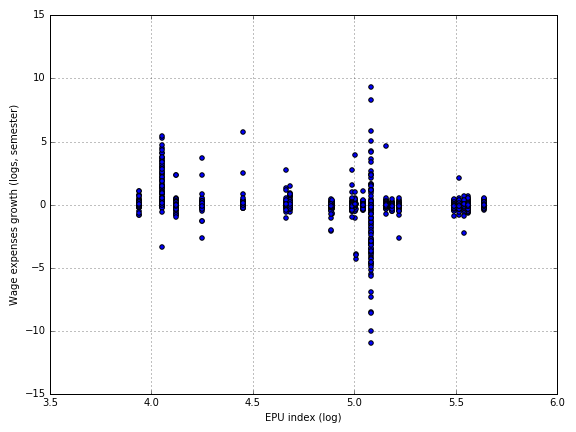
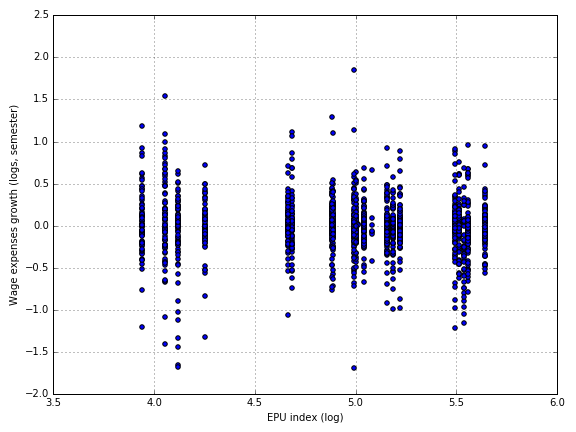
diff must be taken before concatenating dataframes

diff --git a/accounts/match_boe.py b/accounts/match_boe.py
@@ -37,7 +37,7 @@ with open(os.path.join(rootdir,'accounts','biz_meta_regex.csv'),'rb') as inf:
     entity_regex_l = list(instream)
 patterns = map(lambda x: compile(x[1],I|DOTALL).match, entity_regex_l)
 
-
+trim_small = True
 
 def find_work_by_entity():
     wee = []
@@ -187,6 +187,8 @@ def build_data_frame():
 
     macro_df = pd.DataFrame.from_csv(os.path.join(rootdir, 'regressors.csv'))
     bigdict = {}
+    wrongness = 0
+    goodness = 0
     for entity_id in datadict.keys():
         datadict[entity_id] = datadict[entity_id].join(macro_df)
         s = entity_sector_pairs[entity_id]
@@ -196,12 +198,24 @@ def build_data_frame():
         datadict[entity_id]['spend_weighted'] = sector_avg[s]*datadict[entity_id]['spending']
         assert('Wages' in datadict[entity_id])
         datadict[entity_id]['log_w'] = np.log(datadict[entity_id]['Wages'])
+        datadict[entity_id]['dlog_w'] = datadict[entity_id]['log_w'].diff()
+        datadict[entity_id]['dspend_weighted'] = datadict[entity_id]['spend_weighted'].diff()
         if entity_id not in cv_dict: ## exclude entities for which no stock
             continue
         df1 = datadict[entity_id].join(cv_dict[entity_id]).join(cv_dict['ibex35'])
         df1['ibex_weighted'] = df1['ibex35']*sector_avg[s]
-        bigdict[entity_id] = df1
-    
+        
+        df1 = df1[[x[0] or x[1] for x in zip(list(df1['dlog_w'].abs() < 1), list(df1['dlog_w'].isnull()) ) ]]
+        if any(datadict[entity_id]['log_w'].diff().abs() > 1):
+            wrongness +=1
+            print entity_id + 'has wage data issues'
+        else:
+            goodness +=1
+        if trim_small:
+            if len(df1) >3:
+                bigdict[entity_id] = df1
+        else:
+            bigdict[entity_id] = df1
     bigdf = pd.concat(bigdict.values(),keys=bigdict.keys())
         
     for k,v in bigdict.items():
@@ -231,9 +245,9 @@ def run_regressions():
         for ix, regressors in enumerate(reglist):
             if dependent == 'log_w':
                 df = bigdf[bigdf['Wages'] > 0]
-                df[['log_w','spend_weighted']] = df[['log_w','spend_weighted']].diff(periods = 1)
+                df[['log_w','spend_weighted']] = df[['dlog_w','dspend_weighted']].diff()
                 
-                df[['log_epu','epu_weighted','lag_exp']] = df[['log_epu','epu_weighted','spend_weighted']].shift(1)
+                df[['log_epu','epu_weighted','lag_exp']] = df[['log_epu','epu_weighted','dspend_weighted']].shift(1)
                 optional = ['lag_exp']
                 df = df.dropna()
                 if scatter_flag:

diff --git a/cincodias/main.py b/cincodias/main.py
@@ -25,7 +25,7 @@ def create_archive():
     url_tem = 'http://cincodias.com/tag/economia/a/{page}'
     
     newindices = os.path.join(datadir,'newindices')
-    for page in range(3000,num_pages+1):#range(1,num_pages+1):
+    for page in range(5500,num_pages+1):#range(1,num_pages+1):
         fname = '%s.html' % page
         
         if fname not in os.listdir(newindices):

diff --git a/README.md b/README.md
@@ -243,22 +243,22 @@ The epu_weighted coefficient suggests that a 1% increase in either EPU index or 
 
 Daily volatility | (1) | (2) | (3) | (4)
 --- | :---: | :---: | :---: | :---:
-**log_epu** | 1.322 |   | 1.484 |  
- | 0.893 |   | 0.888 |  
-**epu_weighted** |   | 60.047 |   | 63.417
- |   | 0.000 |   | 0.000
-**ibex35** |   |   | -0.382 |  
- |   |   | 0.965 |  
-**ibex_weighted** |   |   |   | -7.958
- |   |   |   | 0.590
-**spending** | -93.233 |   | -87.446 |  
- | 0.816 |   | 0.836 |  
-**spend_weighted** |   | -2203.376 |   | -2088.215
- |   | 0.002 |   | 0.004
+**log_epu** | 9.916 |   | 10.747 |  
+ | 0.373 |   | 0.365 |  
+**epu_weighted** |   | 21.244 |   | 22.747
+ |   | 0.132 |   | 0.131
+**ibex35** |   |   | -1.791 |  
+ |   |   | 0.839 |  
+**ibex_weighted** |   |   |   | -3.326
+ |   |   |   | 0.774
+**spending** | -416.085 |   | -391.899 |  
+ | 0.358 |   | 0.403 |  
+**spend_weighted** |   | -672.074 |   | -627.692
+ |   | 0.255 |   | 0.304
 **lag_expend** |   |   |   |  
  |   |   |   |  
-**r2** | 0.000 | 0.021 | 0.000 | 0.021
-**N** | 1925 | 1925 | 1925 | 1925
+**r2** | 0.001 | 0.018 | 0.001 | 0.018
+**N** | 1842 | 1842 | 1842 | 1842
 **Time&firm eff.** | False | True | False | True
 
 
@@ -274,22 +274,22 @@ Then it appears that companies that are more exposed to the public sector suffer
 
 Log salary expense | (1) | (2) | (3) | (4)
 --- | :---: | :---: | :---: | :---:
-**log_epu** | -0.708 |   | -0.750 |  
+**log_epu** | -0.092 |   | -0.091 |  
  | 0.000 |   | 0.000 |  
-**epu_weighted** |   | -3.175 |   | -4.888
- |   | 0.099 |   | 0.035
-**ibex35** |   |   | 0.272 |  
- |   |   | 0.000 |  
-**ibex_weighted** |   |   |   | 3.038
- |   |   |   | 0.184
-**spending** | 21.757 |   | 15.391 |  
- | 0.000 |   | 0.000 |  
-**spend_weighted** |   | -266.350 |   | -307.576
- |   | 0.000 |   | 0.000
-**lag_expend** | 19.385 | 29.999 | 16.816 | 31.703
- | 0.212 | 0.053 | 0.276 | 0.041
-**r2** | 0.063 | 0.228 | 0.075 | 0.229
-**N** | 1918 | 1918 | 1918 | 1918
+**epu_weighted** |   | 1.208 |   | 1.785
+ |   | 0.089 |   | 0.029
+**ibex35** |   |   | -0.001 |  
+ |   |   | 0.934 |  
+**ibex_weighted** |   |   |   | -1.127
+ |   |   |   | 0.186
+**spending** | 3.313 |   | 3.341 |  
+ | 0.003 |   | 0.004 |  
+**spend_weighted** |   | 235.244 |   | 243.803
+ |   | 0.008 |   | 0.007
+**lag_expend** | -118.866 | 34.601 | -118.178 | 88.454
+ | 0.076 | 0.724 | 0.080 | 0.402
+**r2** | 0.009 | 0.049 | 0.009 | 0.051
+**N** | 1640 | 1640 | 1640 | 1640
 **Time&firm eff.** | False | True | False | True
 
 
